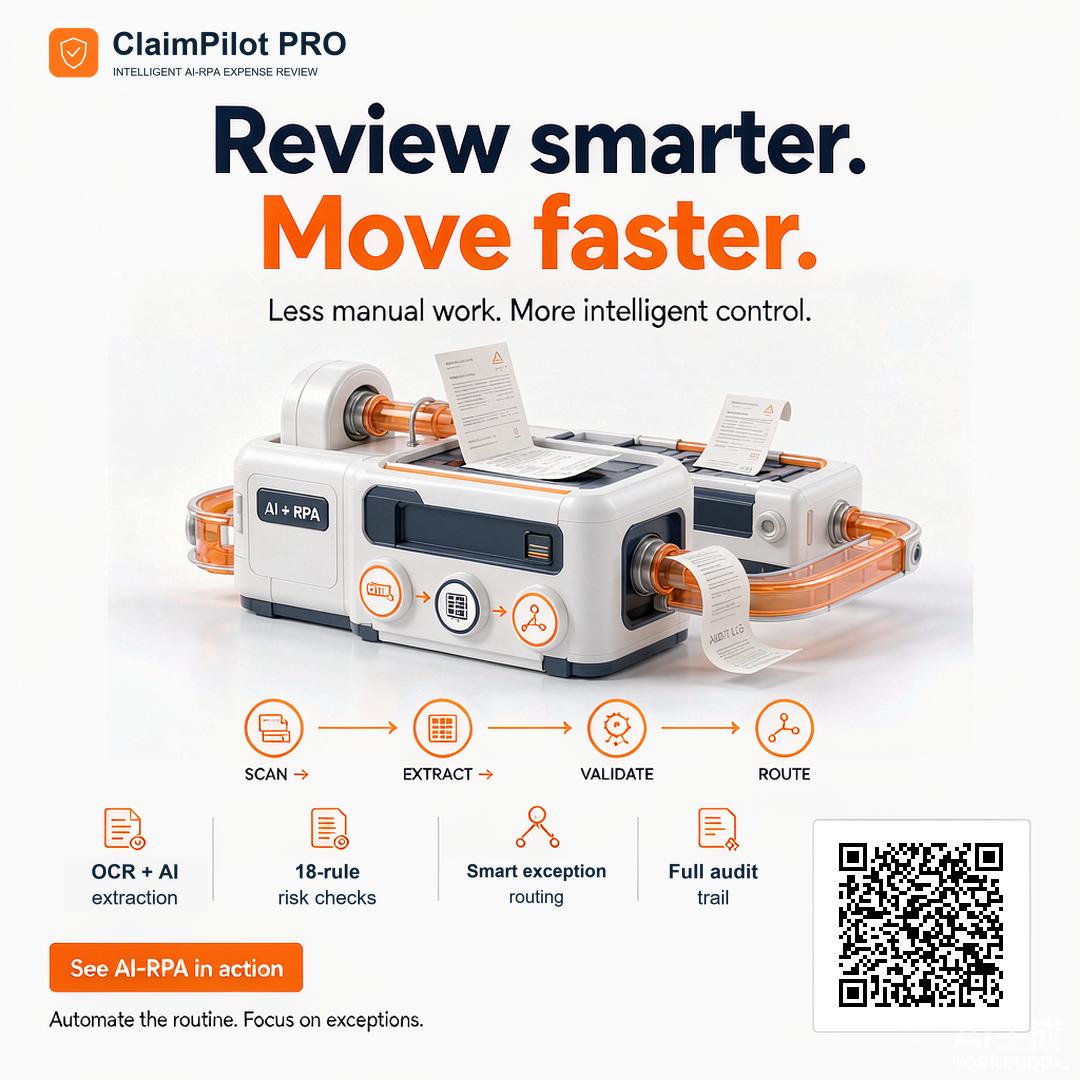
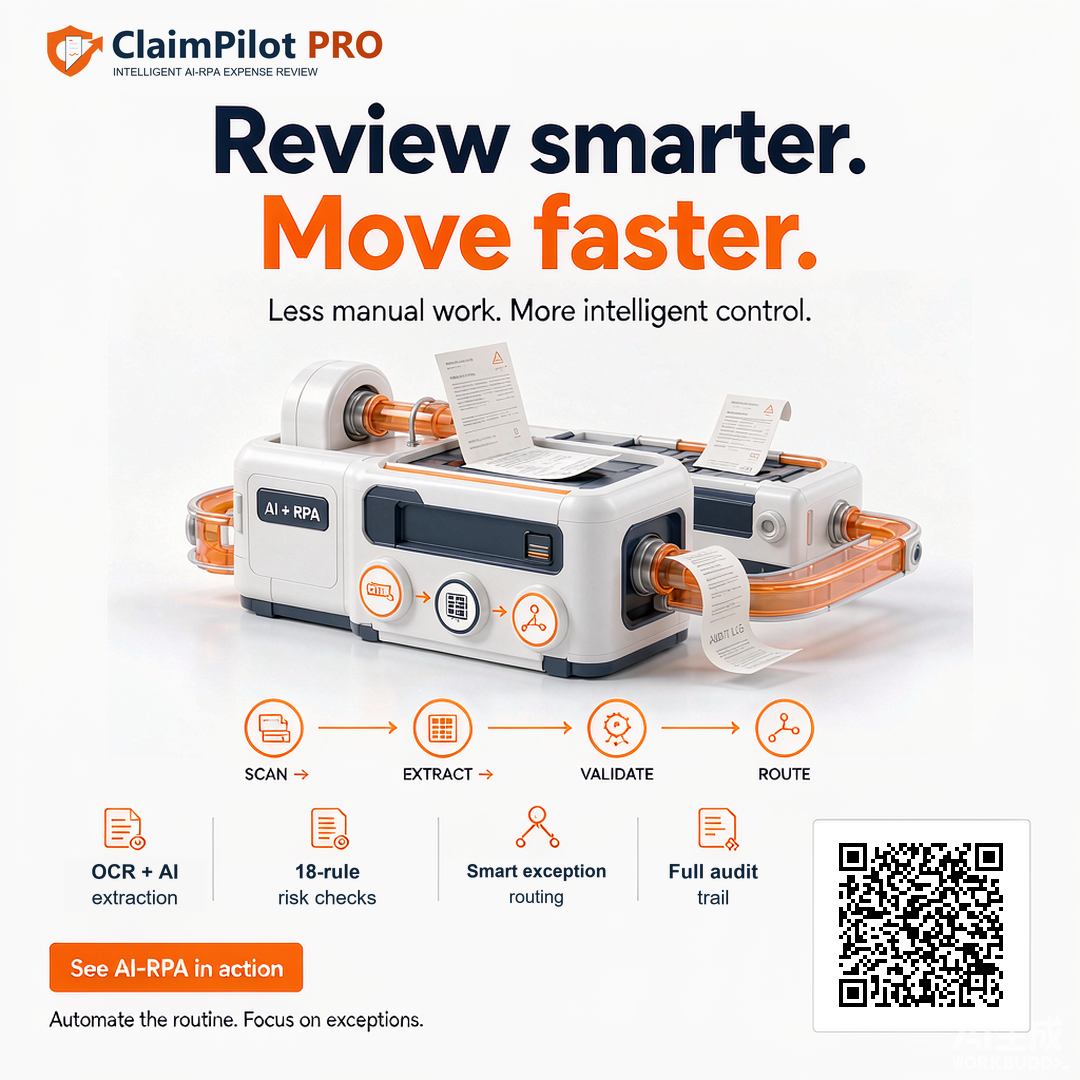
docs(promo): poster with the new mark, and a README section that links it

Changed region(s): [[0.0306, 0.0306, 0.3667, 0.0917]]

diff --git a/README.md b/README.md
@@ -80,6 +80,18 @@ Claims are always owned by the signed-in user: employee and department come from
 
 **Grading index:** [docs/SUBMISSION.md](docs/SUBMISSION.md) maps every requirement, decision (D-01 … D-42) and known limitation to the code and to a way to check it.
 
+## Promo materials
+
+| | |
+|---|---|
+| **Landing page** | <https://szlqjc1.github.io/claimpilot-pro/> — public, no sign-in, served by GitHub Pages from `docs/` |
+| **Poster** | [`promo/poster-1080x1080.png`](promo/poster-1080x1080.png) — 1080×1080, carries the QR that opens the page |
+| **Logo** | `promo/claimpilot-logo-kit.svg` (vector), `promo/claimpilot-mark-{512,128,32}.png` |
+| **Video end card** | `promo/video-endcard-1080x1920.png` — 1080×1920, QR and call to action |
+| **Status of every asset** | [`promo/README.md`](promo/README.md) — what exists, what is still missing |
+
+<a href="promo/poster-1080x1080.png"><img src="promo/poster-1080x1080.png" width="380" alt="ClaimPilot PRO poster"></a>
+
 ## Screenshots
 
 Captured with `pnpm shots` (Playwright, 1440×900, against a running server with `AI_MODE="mock"` and `OCR_MODE="fixture"` after `pnpm db:seed`). The script captures `/login` while signed out, then signs in as Priya Natarajan (reviewer), the account `docs/DEMO_SCRIPT.md` uses, and audits CLM-2026-0147 so her queue has routed work. Frames for an audit GIF are in `docs/images/audit-frames/` (idle → running → done). Both `pnpm shots` and `pnpm a11y:audit` refuse to run unless `AI_MODE` is mock — in `.env`, in the environment, and as reported by the running server — so they can never call the live model by accident; `--allow-live` overrides.
